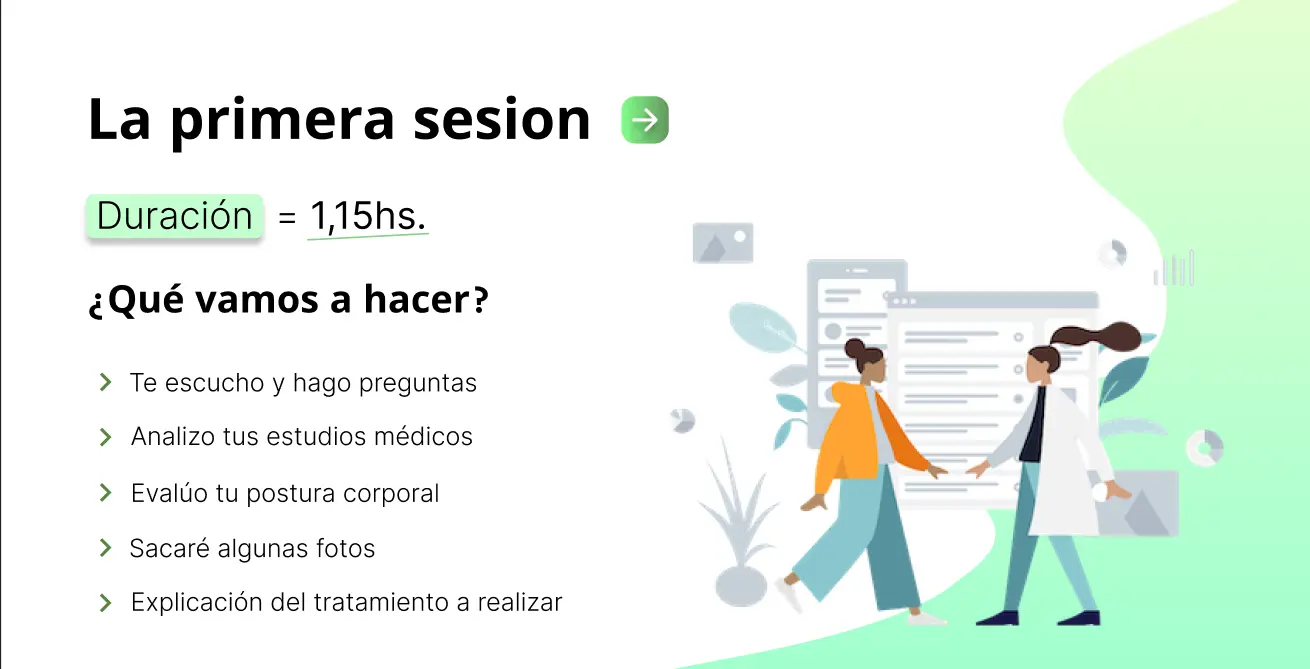
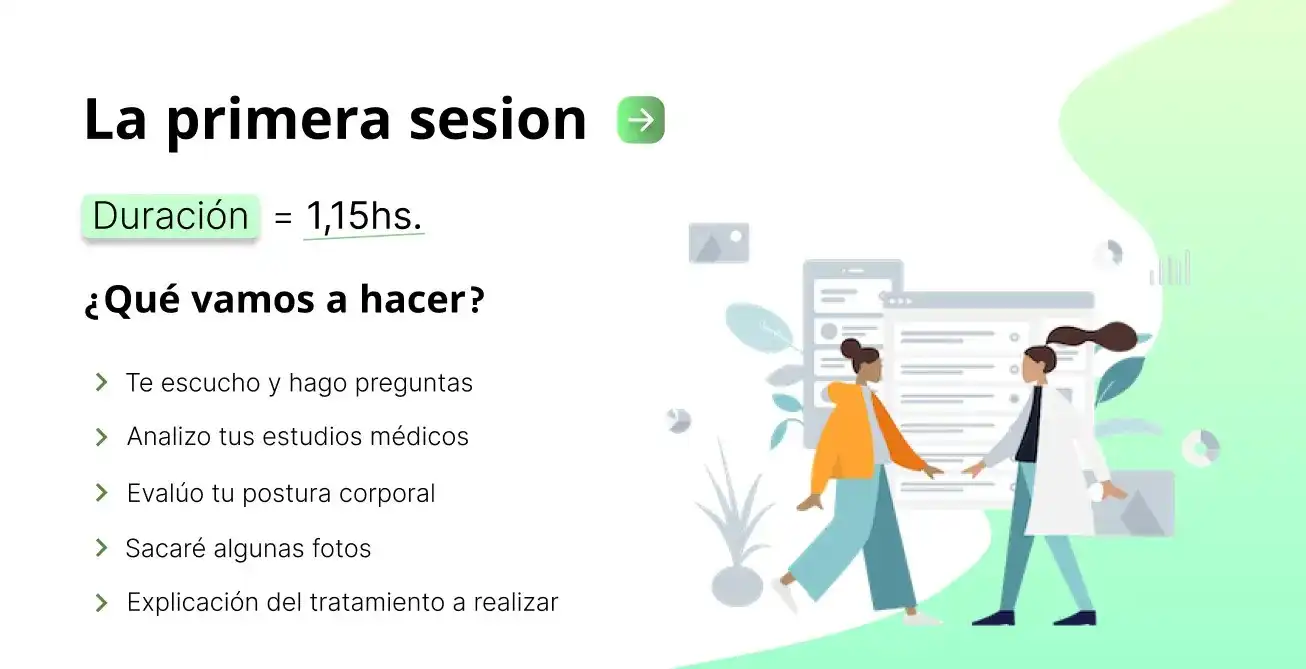
feat: :zap: finish sesion section responsive

diff --git a/index.html b/index.html
@@ -10,6 +10,7 @@
   <meta name="author" content="">
   <meta name="copyright" content="EddevJobs">
   <link rel="icon" href="img/">
+  <link rel="stylesheet" href="https://cdn.jsdelivr.net/npm/swiper@11/swiper-bundle.min.css" />
   <title>Turnos Kinesiologia - Florencia Vazquez</title>
 </head>
 
@@ -88,7 +89,7 @@
             mi enfoque en una kinesiología en permanente crecimiento.
           </p>
           <div class="hero__button-wrap">
-            <a href="https://bydiamondgod.github.io/">
+            <a href="https://bydiamondgod.github.io/" target="_blank">
               <button class="hero__button hero__button--magent">TURNO</button>
             </a>
             <a href="#sesiones">
@@ -109,7 +110,7 @@
       <h2 class="section-main__title">Tratamientos</h2>
       <div class="tratamientos">
         <video class="tratamientos__video" src="/video/video.mp4" alt="tratamientos" controls
-          controlslist="nodownload noremoteplayback" preload="auto" poster="/img/webp/terapia-manual.webp"> </video>
+          controlslist="nodownload noremoteplayback" preload="auto" poster="/img/webp/fotoFV.webp"> </video>
 
         <div class="tratamientos__card">
           <img src="/img/webp/terapia-manual.webp" alt="terapia" class="tratamientos__image">
@@ -118,7 +119,7 @@
             <p class="tratamientos__description">
               Esta emplea técnicas manuales como masajes, movilización articular y manipulación espinal para tratar y
               prevenir lesiones musculoesqueléticas, buscando mejorar la función y reducir el dolor de manera
-              personalizada para cada paciente.
+              personalizada para cada paciente. xxxxxxxxxxxxxxxxxxxxxxxxxxxxxxxxxxxxx
             </p>
             <div class="tratamientos__container-icon">
               <div class="tratamientos__icon">
@@ -137,7 +138,8 @@
             <h3 class="tratamientos__title">Microelectrolisis percutanea</h3>
             <p class="tratamientos__description">
               Es una técnica que usa corriente galvánica mediante una aguja de acupuntura para lograr analgesia,
-              regeneración del tejido y normalización del pH local. Su uso ha demostrado obtener resultados efectivos en patologías que otros métodos
+              regeneración del tejido y normalización del pH local. Su uso ha demostrado obtener resultados efectivos en
+              patologías que otros métodos
               no pueden solucionar.
             </p>
             <div class="tratamientos__container-icon">
@@ -179,7 +181,8 @@
             <h3 class="tratamientos__title">Acupuntura</h3>
             <p class="tratamientos__description">
               Es parte de la medicina tradicional china, usa agujas en puntos corporales específicos para equilibrar la
-              energía vital en los meridianos, buscando restaurar el equilibrio energético. Se aplica para tratar problemas musculares, trastornos digestivos, ansiedad y estrés.
+              energía vital en los meridianos, buscando restaurar el equilibrio energético. Se aplica para tratar
+              problemas musculares, trastornos digestivos, ansiedad y estrés.
             </p>
             <div class="tratamientos__container-icon">
               <div class="tratamientos__icon">
@@ -191,14 +194,15 @@
             </div>
           </div>
         </div>
-        
+
         <div class="tratamientos__card">
           <img src="/img/webp/taping.webp" alt="taping" class="tratamientos__image">
           <div class="tratamientos__body">
             <h3 class="tratamientos__title">Taping</h3>
             <p class="tratamientos__description">
               Es una técnica complementaria a otros tratamientos, aplicada en el sistema musculoesquelético, adaptada a
-              objetivos terapéuticos individuales. Se usa para tratar lesiones musculares, tendinosas y ligamentarias, así como para influir en
+              objetivos terapéuticos individuales. Se usa para tratar lesiones musculares, tendinosas y ligamentarias,
+              así como para influir en
               el sistema linfático.
             </p>
             <div class="tratamientos__container-icon">
@@ -213,19 +217,37 @@
         </div>
       </div>
     </section>
-    <section class="section-main section-height" id="sesiones">
-      <h2 class="section-main__title">Tu primera sesión</h2>
-      <div class="container-middle">
-
+    <section class="section-sesion section-height-2" id="sesiones">
+      <h2 class="section-main__title-2">Tu primera sesión</h2>
+      <p class="section-main__paragraph">¿Como sera?</p>
+      <div class="container-slider">
+        <div class="swiper mySwiper">
+          <div class="swiper-wrapper">
+            <div class="swiper-slide">
+              <img id="slide-pc" src="/img/webp/ppt1.webp" alt="presentacion1">
+              <img id="slide-mobile" src="/img/webp/ppt1-mobile.webp" alt="presentacion1">
+            </div>
+            <div class="swiper-slide">
+              <img id="slide-pc" src="/img/webp/ppt2.webp" alt="presentacion2">
+              <img id="slide-mobile" src="/img/webp/ppt2-mobile.webp" alt="presentacion2">
+            </div>
+            <div class="swiper-slide">
+              <img id="slide-pc" src="/img/webp/ppt3.webp" alt="presentacion3">
+              <img id="slide-mobile" src="/img/webp/ppt3-mobile.webp" alt="presentacion3">
+            </div>
+          </div>
+          <div class="swiper-button-next"></div>
+          <div class="swiper-button-prev"></div>
+          <div class="swiper-pagination"></div>
+        </div>
       </div>
     </section>
-    <section class="section-main section-height" id="turnos">
+
+    <section class="section-height" id="turnos">
       <h2 class="section-main__title">Turnos</h2>
-      <div class="container-middle">
 
-      </div>
     </section>
-    <section class="section-main-2 section-height-2" id="ubicacion">
+    <section class="section-main section-height" id="ubicacion">
       <h2 class="section-main__title">Ubicación</h2>
       <div class="container-middle">
 
@@ -236,6 +258,22 @@
   <footer>
 
   </footer>
+  <script src="https://cdn.jsdelivr.net/npm/swiper@11/swiper-bundle.min.js"></script>
+  <script>
+    var swiper = new Swiper(".mySwiper", {
+      slidesPerView: 1,
+      spaceBetween: 30,
+      loop: true,
+      pagination: {
+        el: ".swiper-pagination",
+        clickable: true,
+      },
+      navigation: {
+        nextEl: ".swiper-button-next",
+        prevEl: ".swiper-button-prev",
+      },
+    });
+  </script>
   <script type="module" src="src/main.js"></script>
 </body>
 

diff --git a/sass/components/_slider.scss b/sass/components/_slider.scss
@@ -1,0 +1,73 @@
+:root {
+  --swiper-navigation-size: 24px
+}
+
+.container-slider {
+ margin: 4rem auto 0;
+ width: clamp(700px, 100%, 1000px);
+}
+
+.swiper {
+  width: 100%;
+  height: 510px;
+}
+
+.swiper-slide {
+  text-align: center;
+  font-size: 18px;
+}
+
+.swiper .swiper-slide {
+  height: 300px;
+  line-height: 300px;
+}
+
+.swiper .swiper-slide:nth-child(2n) {
+  height: 650px;
+}
+
+.swiper-button-next {
+  color: #000;
+  // right: 10px;
+}
+
+.swiper-button-prev {
+  color: #000;
+}
+
+.swiper-pagination-bullet-active {
+  background-color: #000;
+}
+
+#slide-mobile {
+  display: none;
+}
+
+@media screen and (max-width: 1030px) {
+  .container-slider {
+    margin: 4rem auto 0;
+    width: clamp(300px, 70%, 400px);
+    padding-bottom: 5rem;
+   }
+
+   .swiper {
+    width: 100%;
+    height: 625px;
+  }
+
+   #slide-pc {
+    display: none;
+  }
+
+   #slide-mobile {
+    display: block;
+  }
+}
+
+@media screen and (max-width: 580px) {
+
+   .swiper {
+    width: 100%;
+    height: 550px;
+  }
+}

diff --git a/sass/utilities/_mixins.scss b/sass/utilities/_mixins.scss
@@ -10,7 +10,29 @@
       background-color: $secondary-color-1;
       margin-bottom: 3rem;
       padding: 2.2rem;
-      color: #222
+      color: #222;
+      letter-spacing: .4px;
+    }
+
+    &__title-2 {
+      width: 100%;
+      font-weight: 700;
+      text-align: center;
+      background-color: $secondary-color-1;
+      padding: 2.2rem 0 .6rem ;
+      color: #222;
+      letter-spacing: .6px;
+    }
+    
+    &__paragraph {
+      font-size: 18px;
+      width: 100%;
+      font-weight: 400;
+      text-align: center;
+      background-color: $secondary-color-1;
+      padding: 0 0 2.2rem;
+      color: #222;
+      letter-spacing: .4px;
     }
   }
 }

diff --git a/sass/pages/_index.scss b/sass/pages/_index.scss
@@ -15,6 +15,9 @@
     height: 100vh
   }
 
+  .section-sesion {
+    margin: 4rem 0;
+  }
 
 @media screen and (min-width: 769px) {
 
